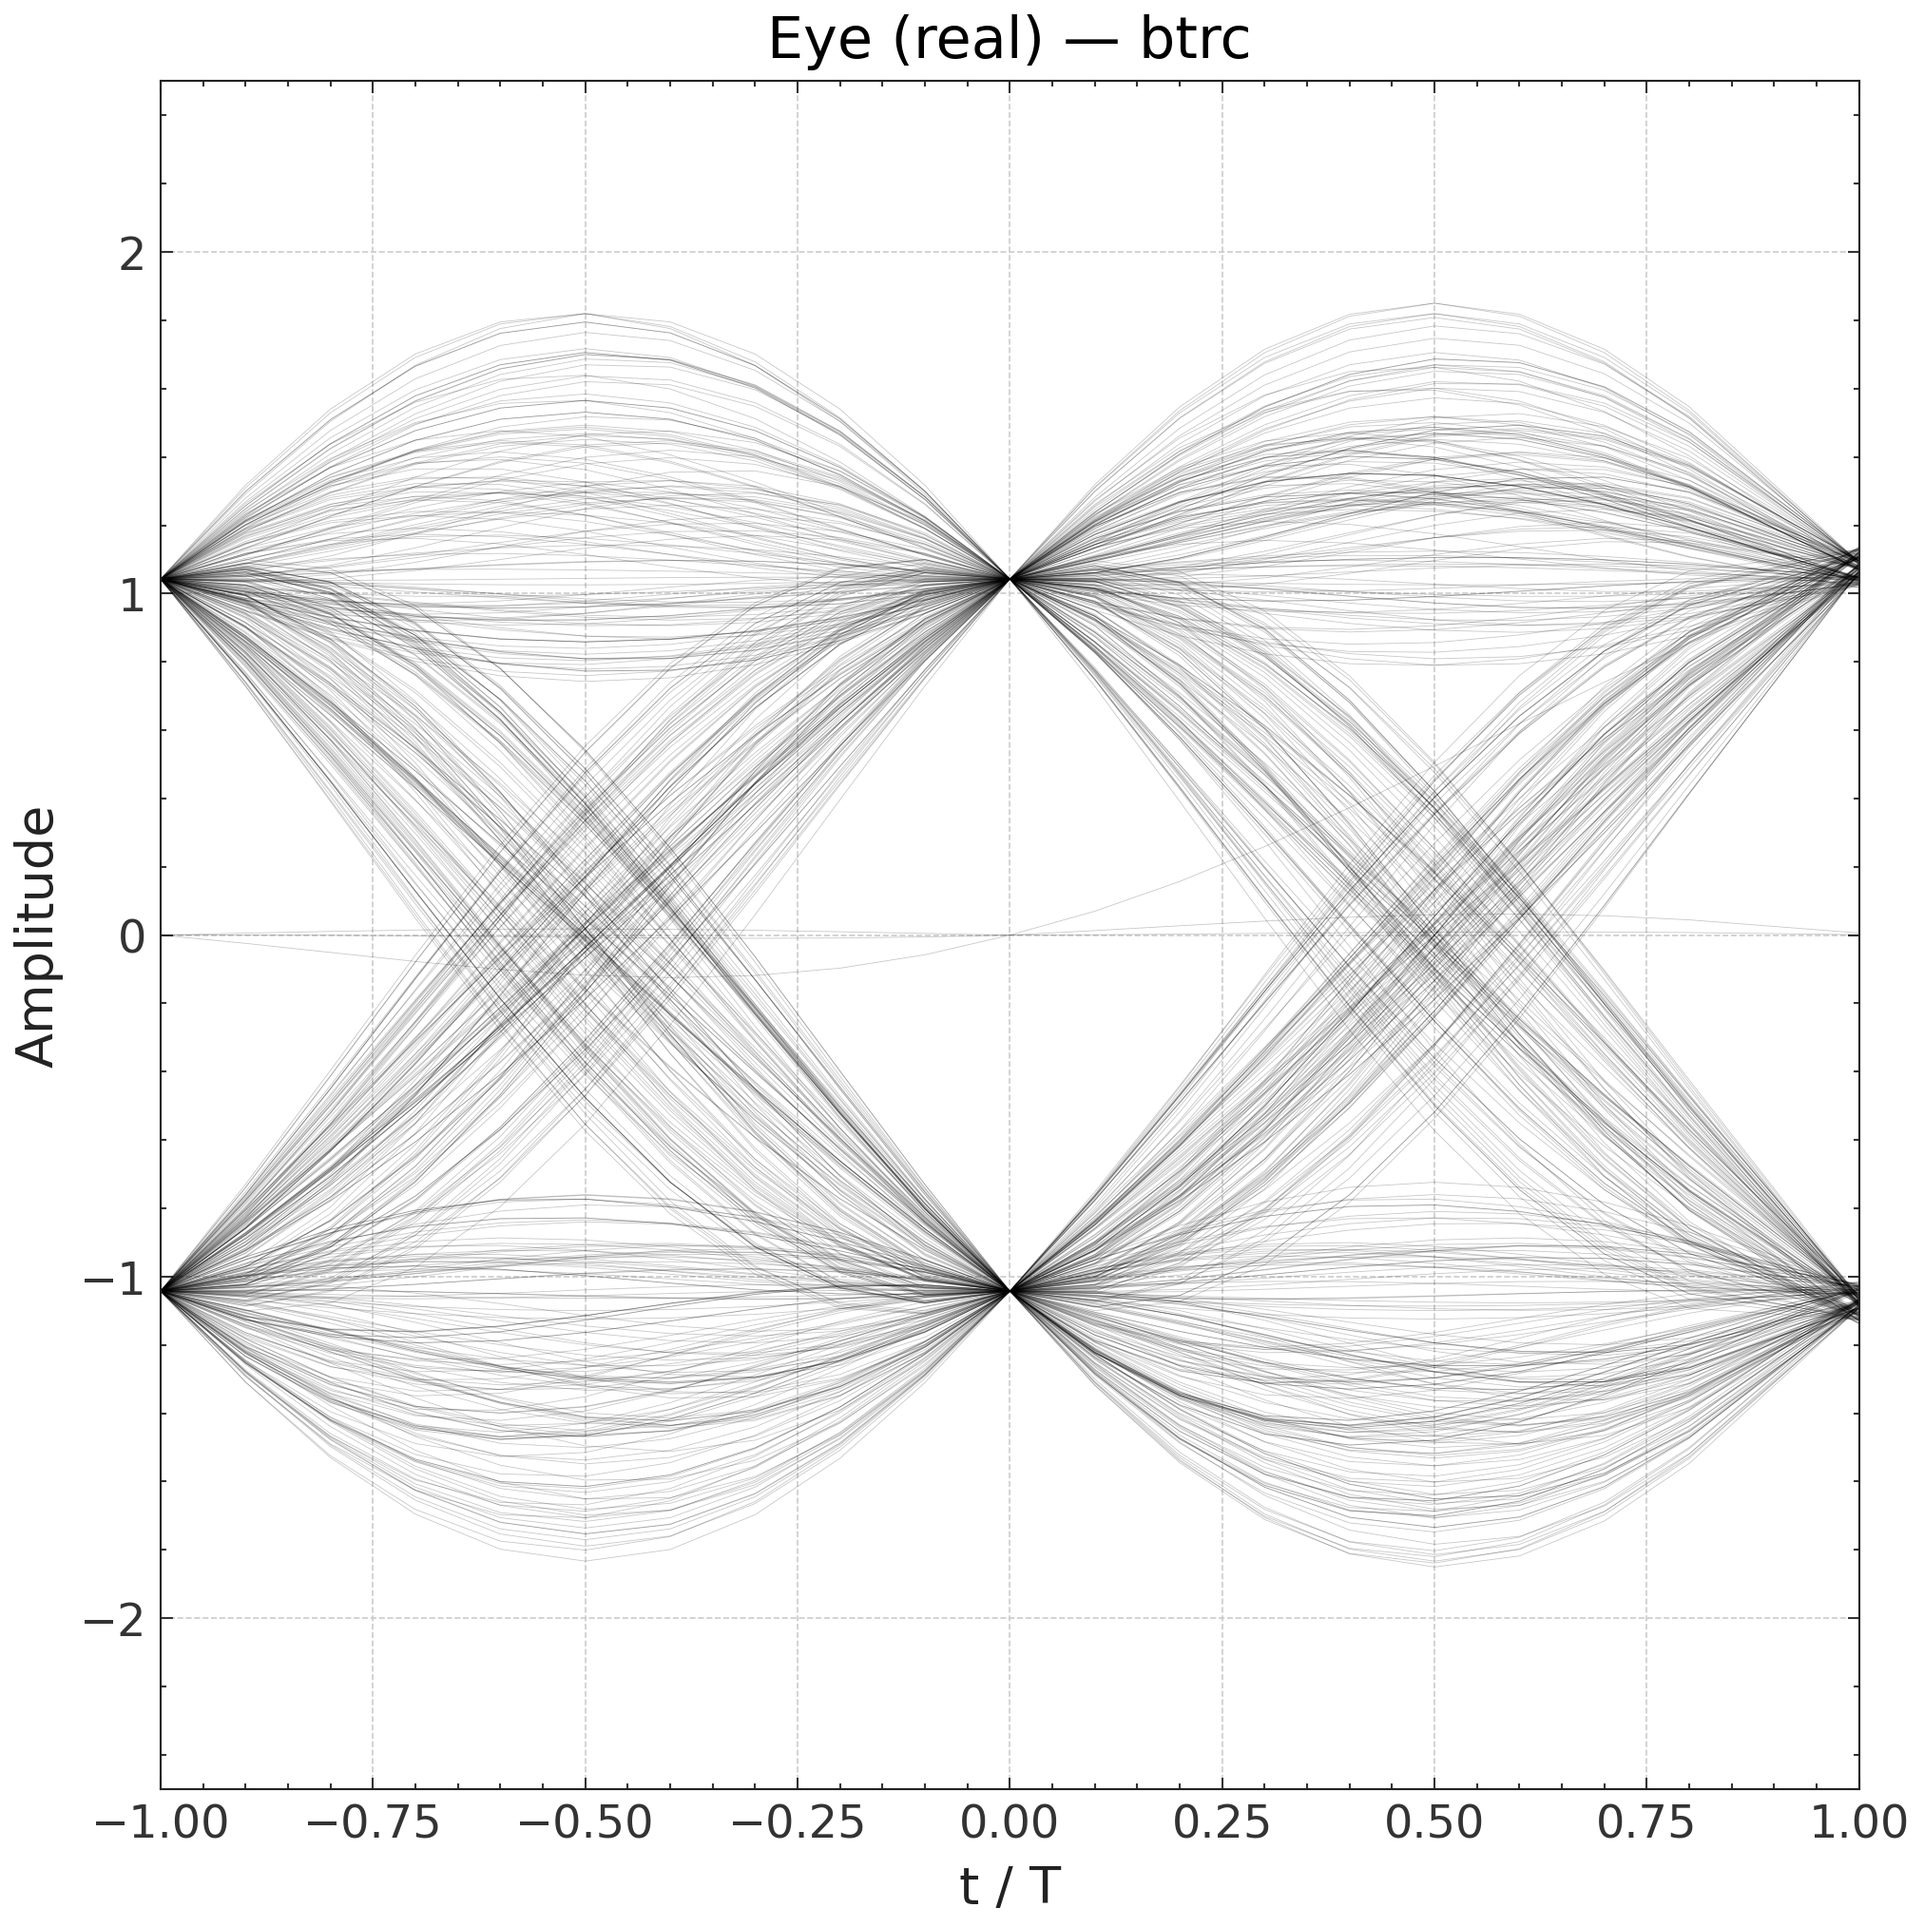
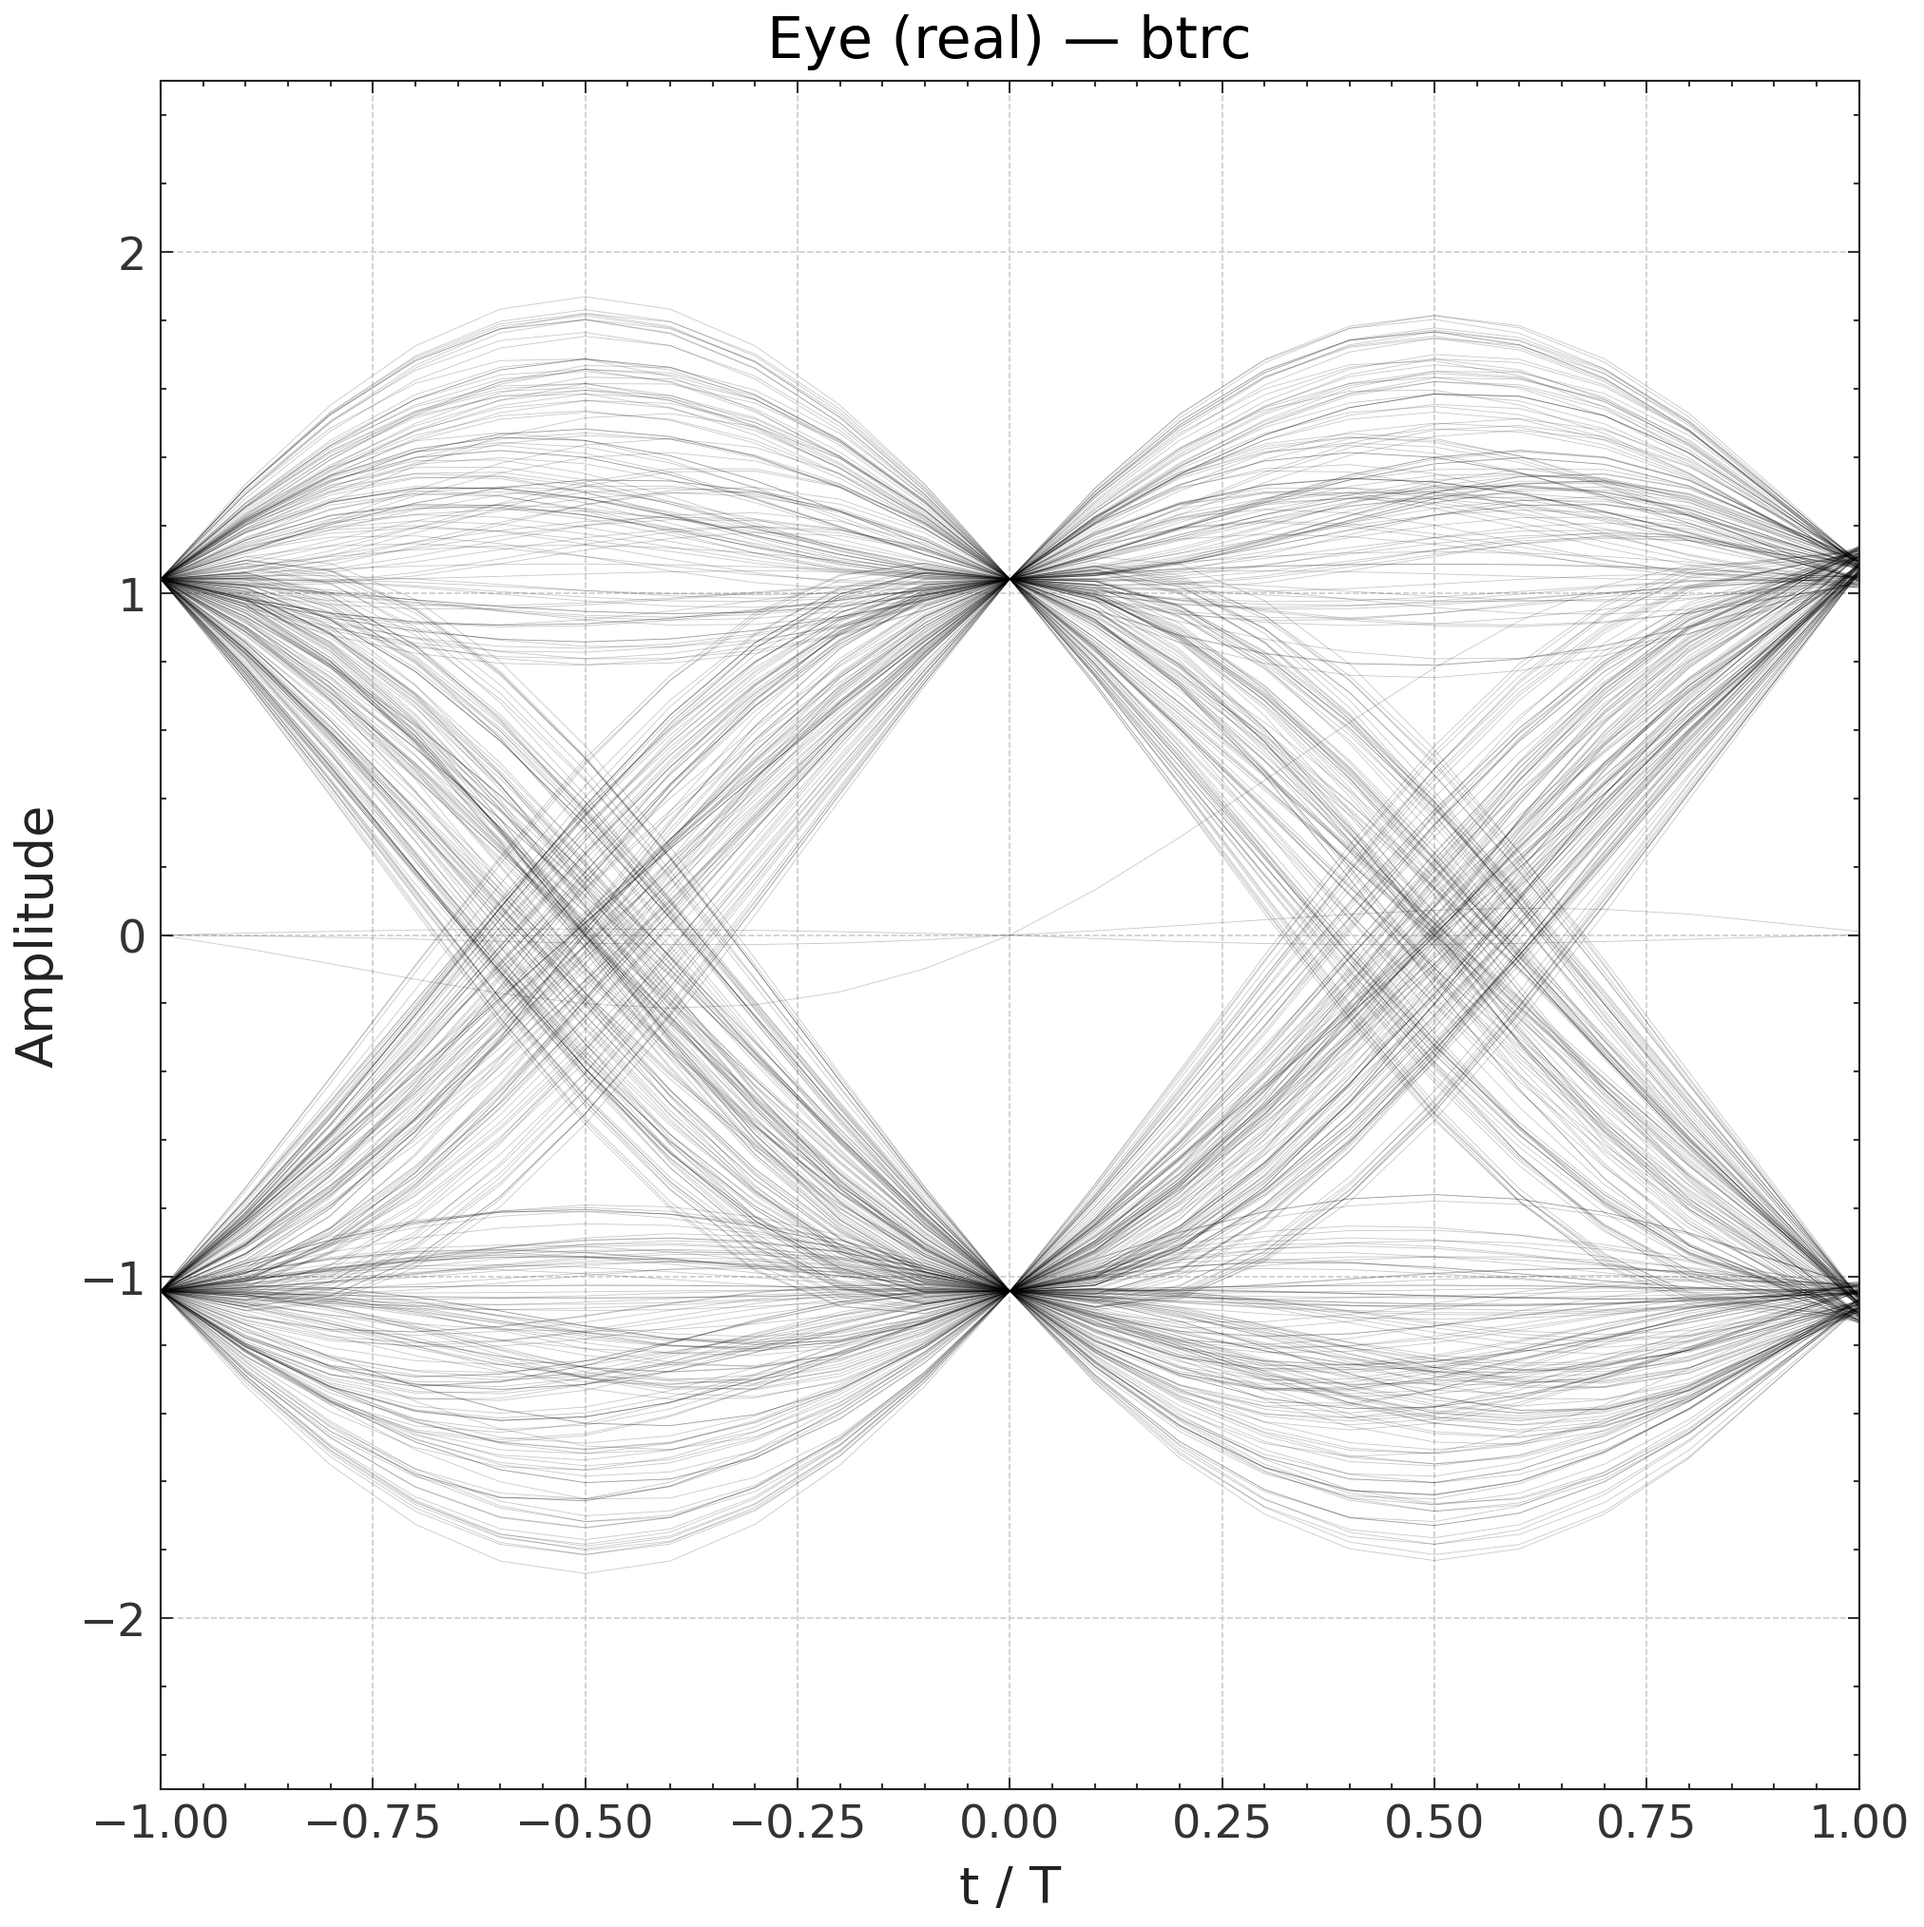
small comments

Changed region(s): [[0.0934, 0.1554, 0.9649, 0.8081]]

diff --git a/src/eye_utils.py b/src/eye_utils.py
@@ -53,7 +53,7 @@ def eye_diagram(
     g = _resolve_pulse(pulse)
     pulse_kwargs = pulse_kwargs or {}
     rng = rng or np.random.default_rng()
-    a = generate_qpsk_symbols(n_symbols, rng=rng)
+    a = generate_bpsk_symbols(n_symbols, rng=rng)
 
     t, dt = t_axis(span_T, fs, T=1.0)
     h = compute_pulse(
